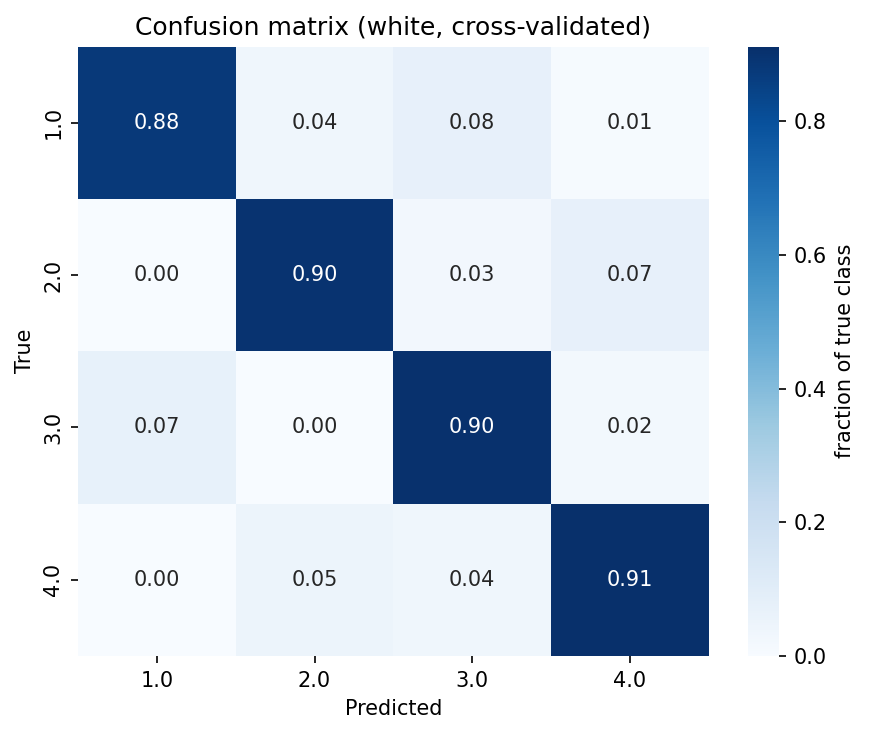
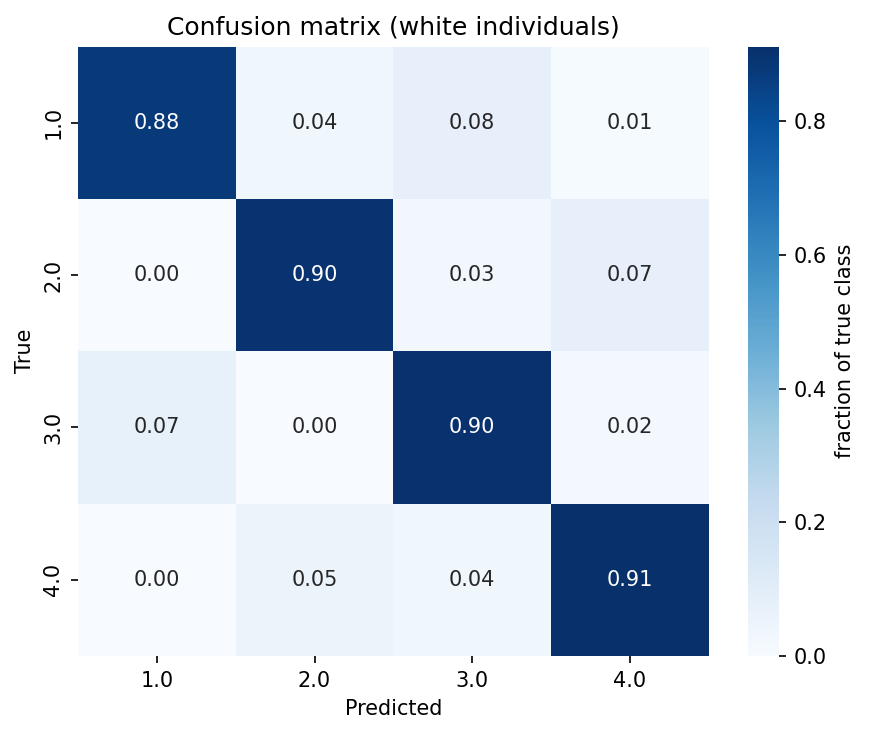
refactoring

Changed region(s): [[0.1554, 0.0, 0.7457, 0.0599]]

diff --git a/src/8_predict_black_ind.py b/src/8_predict_black_ind.py
@@ -36,9 +36,14 @@ def get_args() -> argparse.Namespace:
         type=str, 
         help='Path to expression table)')
     parser.add_argument(
+        '-model', 
+        required=True,
+        type=str,
+        help='Path to pretrained model')
+    parser.add_argument(
         '-out_path', 
         type=str, 
-        default='models', 
+        default='out', 
         help='Folder to save model')
     parser.add_argument(
         '-fig_path', 
@@ -62,7 +67,6 @@ def get_args() -> argparse.Namespace:
         help="Sample name")
 
 
-
     return parser.parse_args()
 
 
@@ -83,65 +87,17 @@ def load_data(expr_data: str, meta_data: str) -> tuple[pd.DataFrame, pd.Series]:
     return X, y
 
 
-def make_pipeline(C: float) -> Pipeline:
-
-    """
-    Combine all processing in one pipeline to avoid leakage.
-    Log-transform, scale, L2 reg
-    """
-    pipe = Pipeline([
-        ('log', FunctionTransformer(np.log1p)),
-        ('scale', StandardScaler()),
-        ('classifier', LogisticRegression(
-            penalty='l2',
-            #multi_class='multinomial',
-            class_weight='balanced',
-            max_iter=1000,
-            C=C
-        ))
-    ])
-
-    return pipe
-
-
-def ev_cv(
-        pipe: Pipeline,
-        X: pd.DataFrame,
-        y: pd.Series,
-        n_splits: int,
-        ) -> pd.Series:
-    """
-    Stratify by calss.
-    """
-    # Cluster are inbalanced, so each fold will preserve class distribution.
-    skfold = StratifiedKFold(n_splits=n_splits, shuffle=True, random_state=314)
-
-    # cross val
-    y_pred = cross_val_predict(pipe, X, y, cv=skfold)
-    y_pred = pd.Series(y_pred, index=y.index)
-
-    # get metrics for imbalanced classes
-    balanced_acc = balanced_accuracy_score(y, y_pred)
-    macro_f1 = f1_score(y, y_pred, average='macro')
-
-    print('=========Stats================')
-    print(f"Balanced accuracy: {balanced_acc:.4f}")
-    print(f"Macro F1: {macro_f1:.4f}")
-    print("\nPer-class:")
-    print(classification_report(y, y_pred))
-
-    y_probabilities = cross_val_predict(pipe, X, y, cv=skfold, method='predict_proba')
-    auc = roc_auc_score(y, y_probabilities, multi_class='ovr', average='macro')
-    print(f"Macro ROC AUC: {auc:.3f}")
-
-    return y_pred
+def load_model(model_file: str) -> Pipeline:
+    """Load the pretrained model."""
+    with open(model_file, 'rb') as f:
+        return pickle.load(f)
 
 
 def plot_stats(
         y_true: pd.Series,
         y_pred: pd.Series,
         fig_file: Path,
-        sample_name: str,
+        sample_name: str
         ) -> None:
     """Function to plot confusion matrix for all classses"""
     labels = sorted(y_true.unique())
@@ -161,22 +117,6 @@ def plot_stats(
     plt.close()
 
 
-def train_final(
-        pipe: Pipeline,
-        X: pd.DataFrame,
-        y: pd.Series,
-        model_file: Path, 
-    ) -> Pipeline:
-    """Fit final model"""
-
-    pipe.fit(X, y)
-    # save as pickle to use later
-    with open(model_file, 'wb') as f:
-        pickle.dump(pipe, f)
-
-    return pipe
-
-
 def main() -> None:
     
     args = get_args()
@@ -191,16 +131,20 @@ def main() -> None:
     X, y = load_data(args.expr, args.meta)
 
     # building pipeline
-    pipe = make_pipeline(args.C)
+    pipe = load_model(args.model)
 
     # run cross val
-    y_pred = ev_cv(pipe, X, y, args.n_splits)
+    y_pred = pd.Series(pipe.predict(X), index=y.index) 
+
+    print(f"Balanced accuracy: {balanced_accuracy_score(y, y_pred):.4f}")
+    print(f"Macro F1:          {f1_score(y, y_pred, average='macro'):.4f}")
+    print(classification_report(y, y_pred))
+
+    y_proba = pipe.predict_proba(X)
+    print(f"Macro ROC AUC: {roc_auc_score(y, y_proba, multi_class='ovr', average='macro'):.4f}")
 
     # plot stats
-    plot_stats(y, y_pred, fig_path / f'{args.sample}_individuals_conf.png', 'white')
-
-    # train and save model
-    train_final(pipe, X, y, out_path / f'{args.sample}_logreg.pkl')
+    plot_stats(y, y_pred, fig_path / f'{args.sample}_individuals_conf.png', 'black')
 
 
 if __name__ == "__main__":
